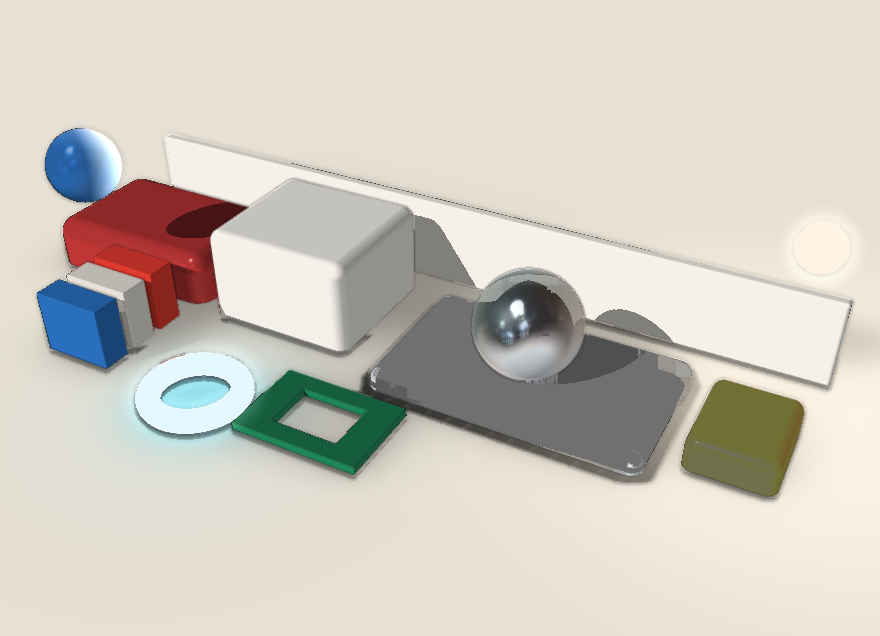
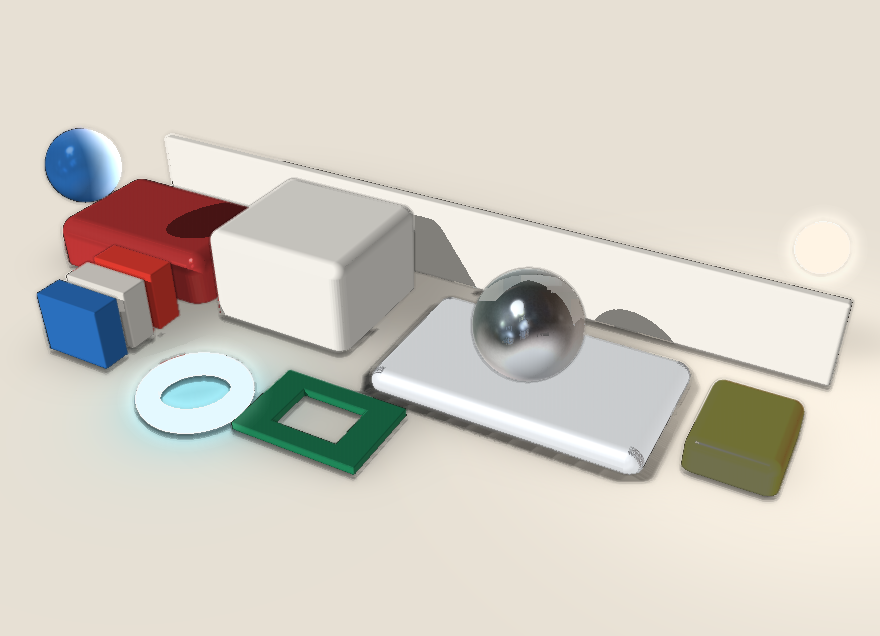
QUALITY-6 §9.2: tip glass-gated lip + metal-plate metalness.
Restore FRONT #555960; metal-plate metalness 0.62; rebake gallery + linux binary.

Changed region(s): [[0.3989, 0.4481, 0.7977, 0.7767], [0.3989, 0.5079, 0.4295, 0.5377], [0.1534, 0.5377, 0.1841, 0.5676]]

diff --git a/scripts/gallery-3d.ts b/scripts/gallery-3d.ts
@@ -339,11 +339,12 @@ function buildPlates(): { sheet: string; title: string; cols: number; cells: Pla
           .replace(
             '<ground id="ground" y="530" rotateX="90" fill="#e7e0d4" shadow-blur="40" shadow-opacity="0.5" />',
             // Softer contact — dual-blind still cites jagged metal-plate rim (§9.2).
-            '<ground id="ground" y="530" rotateX="90" fill="#e7e0d4" shadow-blur="64" shadow-opacity="0.38" />',
+            '<ground id="ground" y="530" rotateX="90" fill="#e7e0d4" shadow-blur="72" shadow-opacity="0.34" />',
           )
           .replace(
             '<rect id="metal-plate" x="470" y="64" width="250" height="150" depth="26" rx="10" fill="#cfd3d8" material="finish metal, color #cfd3d8, roughness 0.58, metalness 0.42, clearcoat 0" />',
-            '<rect id="metal-plate" x="470" y="64" width="250" height="150" depth="26" rx="10" z="6" fill="#d5d9de" material="finish metal, color #d5d9de, roughness 0.78, metalness 0.22, clearcoat 0" />',
+            // Higher metalness — dual-blind called the plate milky/opaque glass (§9.2).
+            '<rect id="metal-plate" x="470" y="64" width="250" height="150" depth="26" rx="14" z="6" fill="#d8dde3" material="finish metal, color #d8dde3, roughness 0.48, metalness 0.62, clearcoat 0" />',
           )
           .replace(
             '<sphere id="chrome" cx="590" cy="140" r="48" z="61" fill="#d8dee4" material="metal 0.12" />',

diff --git a/examples/macbook-pro.tsx b/examples/macbook-pro.tsx
@@ -6,7 +6,7 @@
 // Darker shell so lid bezel specular cannot read as chrome (§9.2).
 const SILVER = '#6e737a'
 const SHELL = 'plastic 0.845'
-const FRONT = '#3a3e44'
+const FRONT = '#555960'
 const KEY = '#2e3138'
 const WELL = '#1a1c20'
 
